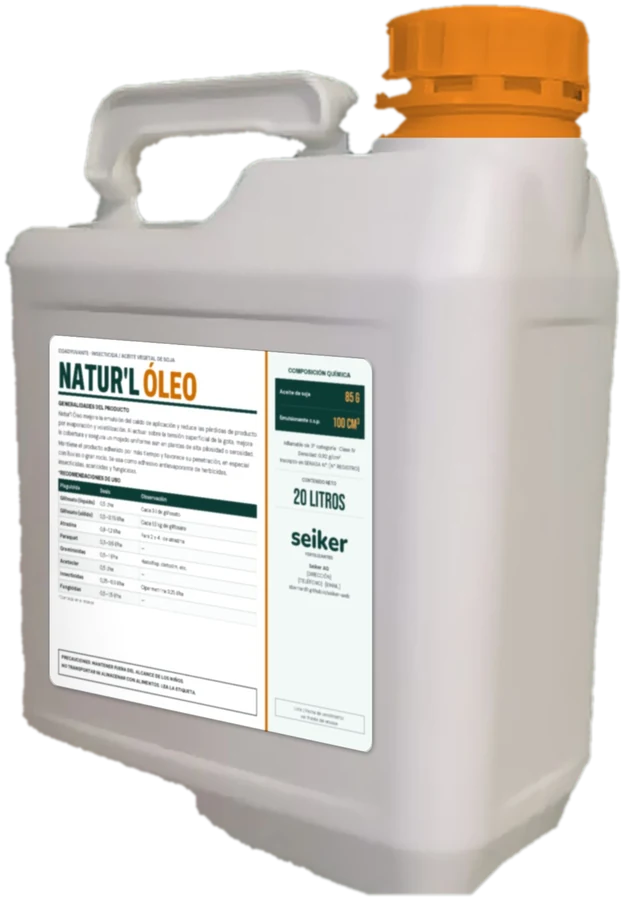
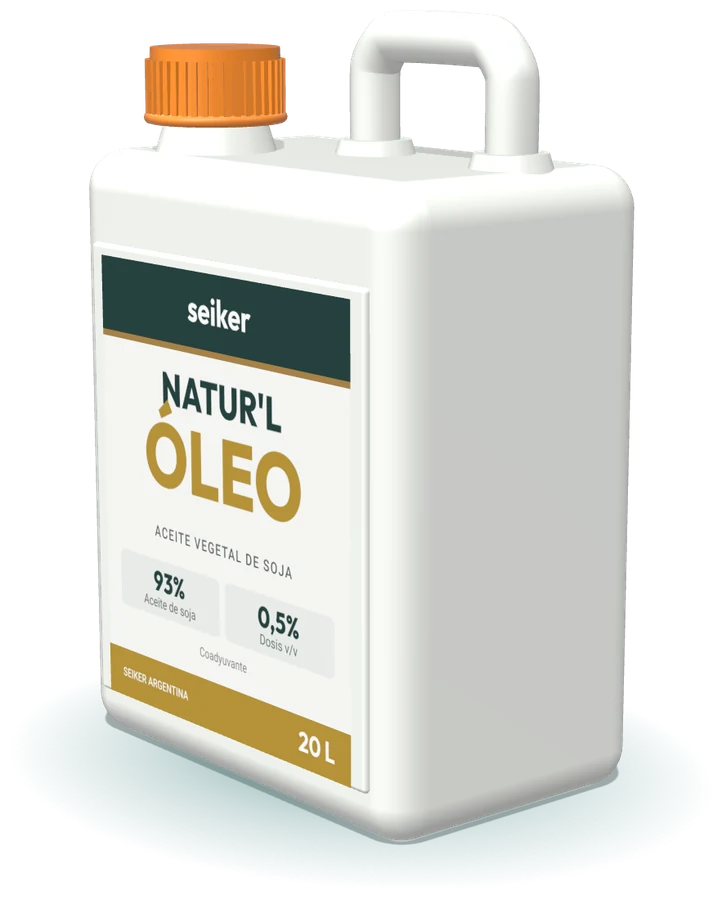
Reemplazar envases por renders 3D en los 10 productos
- Bidones y bolsa renderizados con three.js: plástico, tapa, manija,
  etiqueta impresa y sombra, con fondo transparente
- Las líneas NITROMIX, nutrición y coadyuvantes quedan con el mismo estilo
- Reemplazan los recortes de las fotos de los folletos

Claude-Session: https://claude.ai/code/session_01EZ6SwW7W8GjG9a1CT8ryKt

diff --git a/nueva-web/assets/js/catalogo.js b/nueva-web/assets/js/catalogo.js
@@ -179,7 +179,7 @@
         "Mínima volatilización"
       ],
       color: "#1F7A4D",
-      imagen: "",
+      imagen: "assets/img/productos/nitromix-ns.webp",
       documentos: [],
       destacado: true
     },
@@ -205,7 +205,7 @@
         "Apunta a maximizar el rendimiento"
       ],
       color: "#2D6E96",
-      imagen: "",
+      imagen: "assets/img/productos/nitromix-zn.webp",
       documentos: [],
       destacado: false
     },
@@ -231,7 +231,7 @@
         "Acompaña el llenado de granos"
       ],
       color: "#B7832A",
-      imagen: "",
+      imagen: "assets/img/productos/nitromix-b.webp",
       documentos: [],
       destacado: true
     },
@@ -257,7 +257,7 @@
         "Reducción de la volatilización"
       ],
       color: "#6B4F2A",
-      imagen: "",
+      imagen: "assets/img/productos/nitromix-plus.webp",
       documentos: [],
       destacado: false
     },
@@ -294,7 +294,7 @@
         "Aplicación foliar"
       ],
       color: "#5E8A2E",
-      imagen: "",
+      imagen: "assets/img/productos/nitroplus-18.webp",
       documentos: [],
       destacado: false
     },
@@ -575,7 +575,7 @@
         ["Importante", "No dejar las bolsas abiertas: el producto toma humedad del aire. Complementa, no reemplaza, la fertilización al suelo. Usar con tensioactivo o junto con agroquímicos. No aplicar con temperatura o insolación elevadas."]
       ],
       color: "#E8821E",
-      imagen: "",
+      imagen: "assets/img/productos/harvest-more.webp",
       documentos: [{ nombre: "Folleto Harvest More 5-5-45", url: "docs/harvest-more.pdf" }],
       relacionados: ["nitrate-balancer"],
       destacado: true
